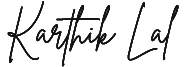
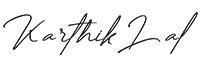
portfolio: fix the mediaQuery of img(tag) and welcome new assets

diff --git a/index.html b/index.html
@@ -34,7 +34,7 @@
     />
     <meta
       property="og:image"
-      content="https://karthiklal.in//assets/img/intro/img.jpg"
+      content="https://karthiklal.in/assets/img/intro/img.png"
     />
     <meta property="og:url" content="https://karthiklal.in/" />
     <meta name="twitter:card" content="summary_large_image" />
@@ -48,7 +48,7 @@
     />
     <meta
       name="twitter:image"
-      content="https://karthiklal.in//assets/img/intro/img.jpg"
+      content="https://karthiklal.in/assets/img/intro/img.png"
     />
     <meta name="twitter:site" content="@karthiklal_in" />
 
@@ -246,7 +246,7 @@
             <div class="page-header-inner tt-wrap">
               <div class="ph-image">
                 <div class="ph-image-inner">
-                  <img src="assets/img/intro/img.jpg" alt="Image" />
+                  <img src="assets/img/intro/img.png" alt="Image" />
                 </div>
               </div>
               <div class="ph-caption max-width-1000">
@@ -1503,7 +1503,7 @@
     <script src="assets/plugins/isotope/packery-mode.pkgd.min.js"></script>
     <script src="assets/plugins/lightgallery/js/lightgallery-all.min.js"></script>
     <script src="assets/plugins/jquery.mousewheel.min.js"></script>
-    <script src="assets/js/block.js"></script>
+    <!-- <script src="assets/js/block.js"></script> -->
     <script src="assets/js/script.js"></script>
   </body>
 </html>

diff --git a/404.html b/404.html
@@ -34,7 +34,7 @@
     />
     <meta
       property="og:image"
-      content="https://karthiklal.in//assets/img/intro/img.jpg"
+      content="https://karthiklal.in/assets/img/intro/img.png"
     />
     <meta property="og:url" content="https://karthiklal.in/" />
     <meta name="twitter:card" content="summary_large_image" />
@@ -48,7 +48,7 @@
     />
     <meta
       name="twitter:image"
-      content="https://karthiklal.in//assets/img/intro/img.jpg"
+      content="https://karthiklal.in/assets/img/intro/img.png"
     />
     <meta name="twitter:site" content="@karthiklal_in" />
 

diff --git a/contact.html b/contact.html
@@ -34,7 +34,7 @@
     />
     <meta
       property="og:image"
-      content="https://karthiklal.in//assets/img/intro/img.jpg"
+      content="https://karthiklal.in/assets/img/intro/img.png"
     />
     <meta property="og:url" content="https://karthiklal.in/" />
     <meta name="twitter:card" content="summary_large_image" />
@@ -48,7 +48,7 @@
     />
     <meta
       name="twitter:image"
-      content="https://karthiklal.in//assets/img/intro/img.jpg"
+      content="https://karthiklal.in/assets/img/intro/img.png"
     />
     <meta name="twitter:site" content="@karthiklal_in" />
 

diff --git a/portfolio.html b/portfolio.html
@@ -34,7 +34,7 @@
     />
     <meta
       property="og:image"
-      content="https://karthiklal.in//assets/img/intro/img.jpg"
+      content="https://karthiklal.in/assets/img/intro/img.png"
     />
     <meta property="og:url" content="https://karthiklal.in/" />
     <meta name="twitter:card" content="summary_large_image" />
@@ -48,7 +48,7 @@
     />
     <meta
       name="twitter:image"
-      content="https://karthiklal.in//assets/img/intro/img.jpg"
+      content="https://karthiklal.in/assets/img/intro/img.png"
     />
     <meta name="twitter:site" content="@karthiklal_in" />
 

diff --git a/assets/css/dark-style.css b/assets/css/dark-style.css
@@ -1688,18 +1688,20 @@ body:not(.tt-boxed) .page-header-inner,
 	.ph-image,
 	#page-header.ph-full:not(.ph-center):not(.ph-bg-image) .ph-image {
 		width: 25vw;
+		width: 35%;
 	}
 }
 @media (max-width: 1024px) {
 	.ph-image,
 	#page-header.ph-full:not(.ph-center):not(.ph-bg-image) .ph-image {
 		right: 10vw;
+		width: 40%;
 	}
 }
 @media (max-width: 540px) {
 	.ph-image,
 	#page-header.ph-full:not(.ph-center):not(.ph-bg-image) .ph-image {
-		width: 50%;
+		width: 65%;
 	}
 }
 
